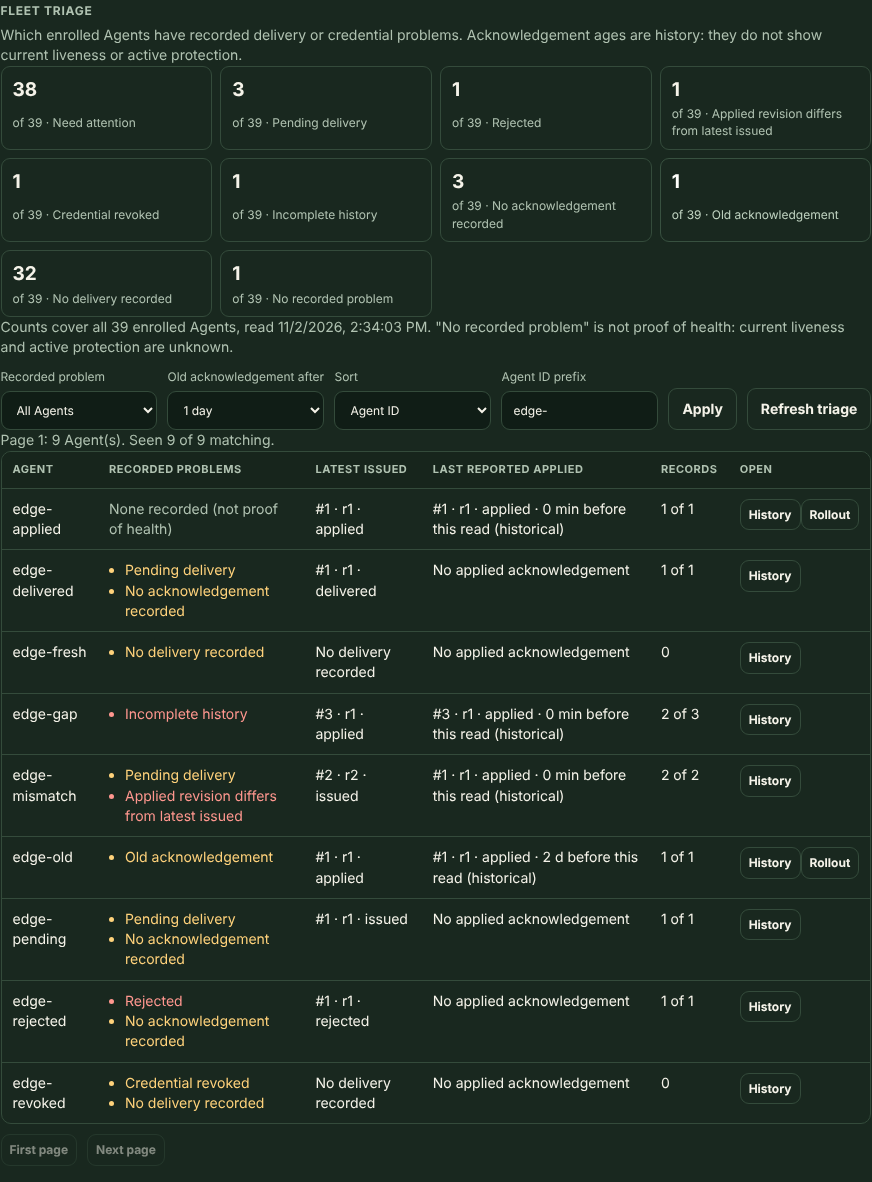
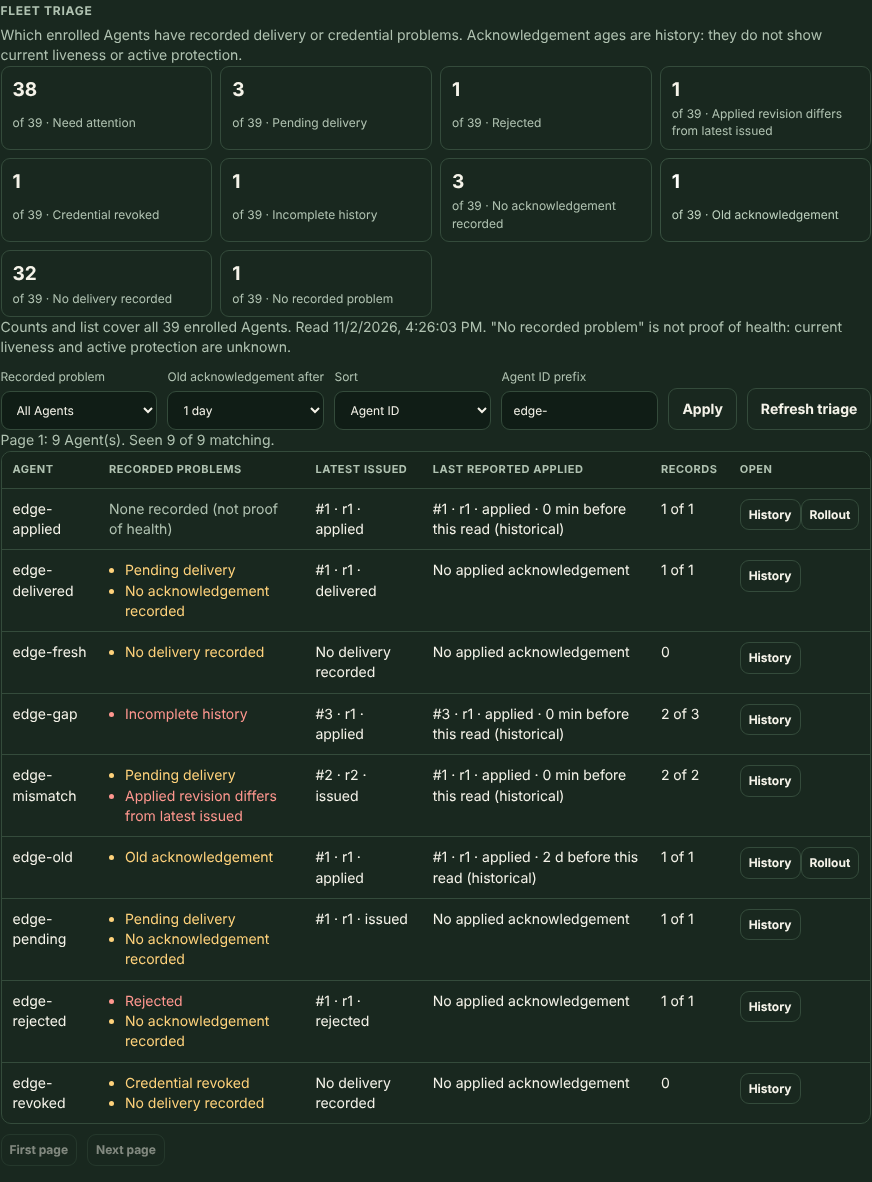
Update Console fleet triage evidence after the review fix
SQLite (40 checks) and TLS PostgreSQL (41 checks) acceptance runs of commit a164e612, including a tenant above the count bound.

Changed region(s): [[0.0, 0.2741, 0.9599, 0.3046]]

diff --git a/docs/operations/evidence/CONSOLE_FLEET_TRIAGE_2026-11-02.md b/docs/operations/evidence/CONSOLE_FLEET_TRIAGE_2026-11-02.md
@@ -11,8 +11,8 @@ and screenshots:
 | --- | --- |
 | Platform | hosted Ubuntu 24.04 x86_64 container, non-root user (not a physical host, not WSL2) |
 | Base | main `f66a2242` |
-| Source | commit `12b1ffff`, tree `da6f5286c8db16b57d8ab71c17e733b9385cc7d7`, clean |
[1 lines of base64/hex data omitted]
+| Source | commit `a164e612` (review fix on top of the PR's `8ebdf24c`), tree `adb8087c4023c317e3739a1cccd52cbb8d409d31`, clean |
[2 lines of base64/hex data omitted]
 | Stores | disposable SQLite file; disposable PostgreSQL 16.15 cluster on 127.0.0.1 with TLS (owned CA, `sslmode=require`) |
 | Browser | Chromium (Playwright) as Viewer, Operator and Owner |
@@ -30,7 +30,7 @@ no retained report or screenshot contains them.
 
 ## Result: `scripts/console-fleet-triage-acceptance.py` passed
 
-SQLite: **36 checks**. PostgreSQL: **37 checks** (adds the TLS migration).
+SQLite: **40 checks**. PostgreSQL: **41 checks** (adds the TLS migration).
 
 | Step | Observed on both stores |
 | --- | --- |
@@ -44,6 +44,7 @@ SQLite: **36 checks**. PostgreSQL: **37 checks** (adds the TLS migration).
 | Delayed page | a held next-page reply released after switching to Beta was not shown |
 | No side effects | no non-GET browser request, unchanged URL, no browser storage; enrollments and group members unchanged |
 | Restart | Console stopped: the triage read fails and the list clears; after restart Operator, Owner and Viewer each see attention 37 and no mutation control in the section |
+| Count bound | a third tenant with 10,001 Agents where only `agent-10000`, beyond the bound, has an applied acknowledgement: by prefix, by "no recorded problem" with oldest acknowledgement first and by age paging it is neither counted nor listed (`complete: false`, 10,000 counted, 0 matching); the browser says later Agents are neither counted nor listed, shows "Seen 25 of 10000 matching" and lists nothing for the prefix |
 | Layout | 390 px wide page without horizontal overflow |
 
 Screenshots: [all outcomes](console-fleet-triage-2026-11-02/sqlite-triage-edge.png),
@@ -56,14 +57,19 @@ Screenshots: [all outcomes](console-fleet-triage-2026-11-02/sqlite-triage-edge.p
   Agent ID and by oldest acknowledgement without loss or duplicates; HTTP
   authorization (Viewer, Operator, Owner, no session, Agent credential),
   unknown tenant and invalid queries; the 10,000-Agent count bound reported
-  as incomplete; empty and unknown tenants.
-- `scripts/tests/test_console_fleet_triage_browser.py` (8, synthetic
+  as incomplete, with pages drawn from the same counted Agents (an
+  acknowledged Agent beyond the bound is never listed by prefix,
+  oldest-acknowledgement filter or full age paging; this fails on the
+  previous query); empty and unknown tenants.
+- `scripts/tests/test_console_fleet_triage_browser.py` (10, synthetic
   fixtures): counts, denominators and filter buttons; pages, partial counts,
   repeated and missing Agents after changes; a stale reply after a tenant
   switch; mixed-tenant, unknown problem, HTML-shaped ID, duplicate, filter
   mismatch, wrong tenant, negative count and wrong contract responses
   refused; 401, 403, 404 and 503; deep links; local prefix refusal and empty
-  state; 390 px layout.
+  state; 390 px layout; a listed Agent outside the counted universe and
+  inconsistent counts refused (never "Seen 1 of 0"); more Agents seen than
+  the latest count reported as a change, never as "Seen 30 of 26".
 - History, enrollment and rollout browser suites (49) still pass with the
   module on the page; `proxy_tenants.rs` checks the served page.
 
